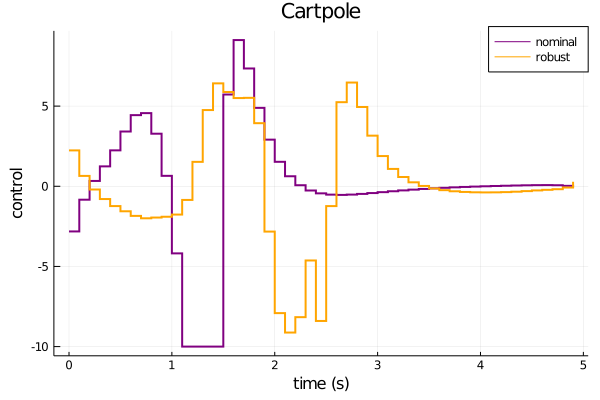
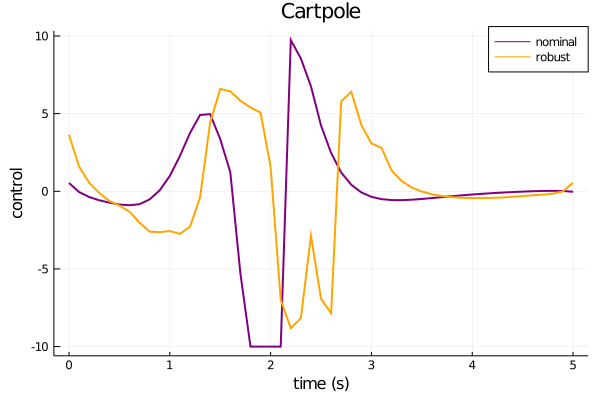
examples update for first-order-hold controls

diff --git a/README.md b/README.md
@@ -6,7 +6,7 @@ DIRTREL finds locally optimal solutions to the robust trajectory optimization pr
 ```
 minimize        l(X,U) + lw(X,U)
   X,U,H
-subject to      f(x+,x,u,h) = 0
+subject to      f(x+,x,u+,u,h) = 0
                 h+ = h
                 x1 = x(0)
                 xT = x(tf)
@@ -18,6 +18,7 @@ subject to      f(x+,x,u,h) = 0
 ```
 For simplicity of the implementation,
 robust constraints are only implemented for state and control bounds.
+Additionally, first-order-hold is implemented for controls.
 
 ## Installation
 ```code
@@ -25,7 +26,7 @@ git clone https://github.com/thowell/DIRTREL.jl
 ```
 
 ## Examples
-The [pendulum](https://github.com/thowell/DIRTREL.jl/blob/master/examples/pendulum_robust.jl) and [cartpole](https://github.com/thowell/DIRTREL.jl/blob/master/examples/cartpole_robust.jl) examples from the paper are reproduced*.
+Examples similar to the [pendulum](https://github.com/thowell/DIRTREL.jl/blob/master/examples/pendulum_robust.jl) and [cartpole](https://github.com/thowell/DIRTREL.jl/blob/master/examples/cartpole_robust.jl) from the paper are provided.
 
 ### Pendulum
 ![](examples/results/pendulum_state.png)
@@ -35,13 +36,9 @@ The [pendulum](https://github.com/thowell/DIRTREL.jl/blob/master/examples/pendul
 ![](examples/results/cartpole_state.png)
 ![](examples/results/cartpole_control.png)
 
-*Note: Because the open-source non-convex solver [Ipopt](https://github.com/coin-or/Ipopt)
-is used in place of [SNOPT](https://web.stanford.edu/group/SOL/snopt.htm),
-the optimized trajectories differ slightly, but the qualitative behavior is similar.
-
 ## TODO
 - [X] add linear robust state bounds
-- [ ] first-order-hold controls
+- [X] first-order-hold controls
 - [ ] add general robust constraints
 - [ ] replace ForwardDiff with analytical derivatives
 - [ ] compare results with SNOPT
